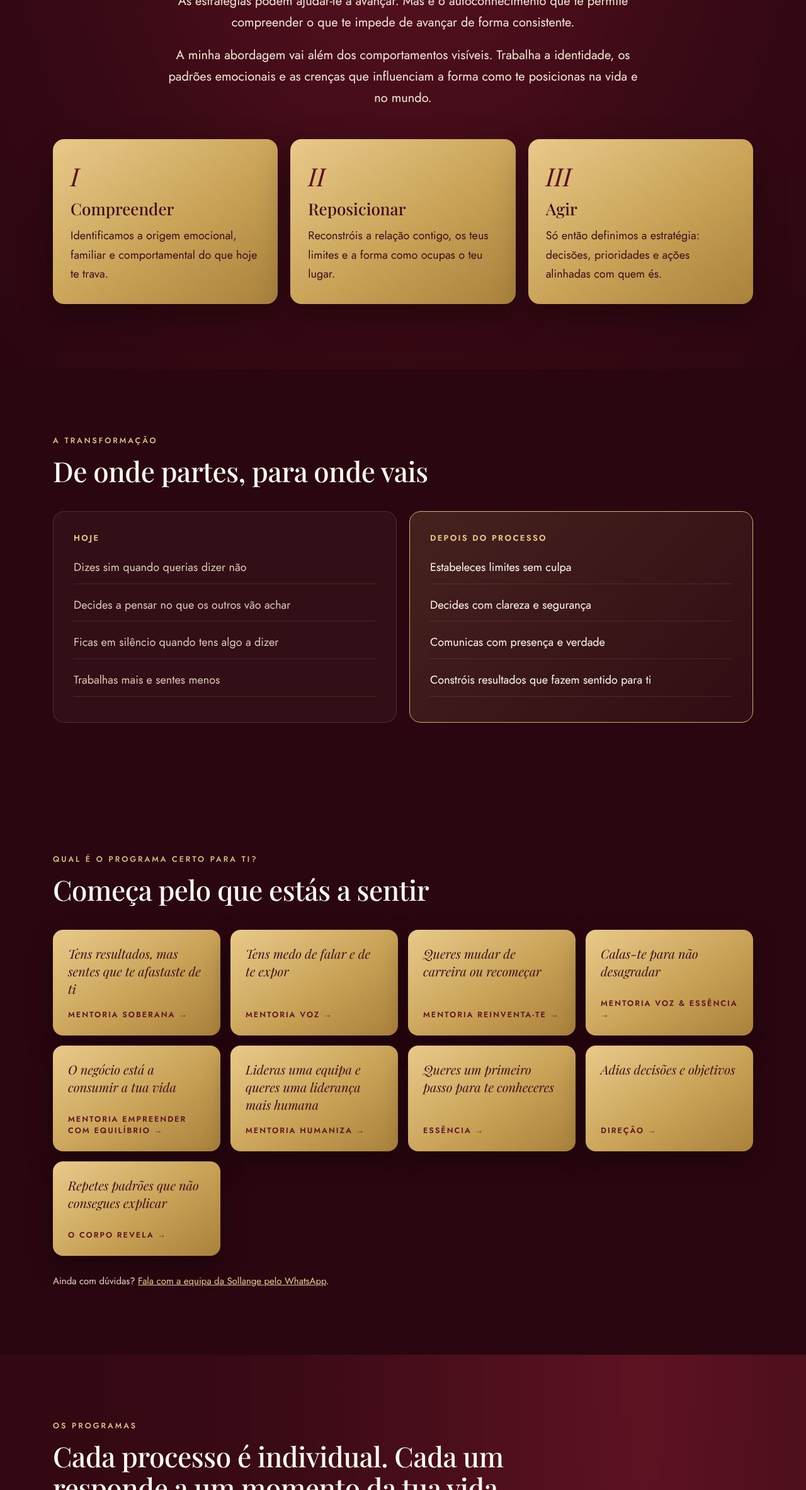
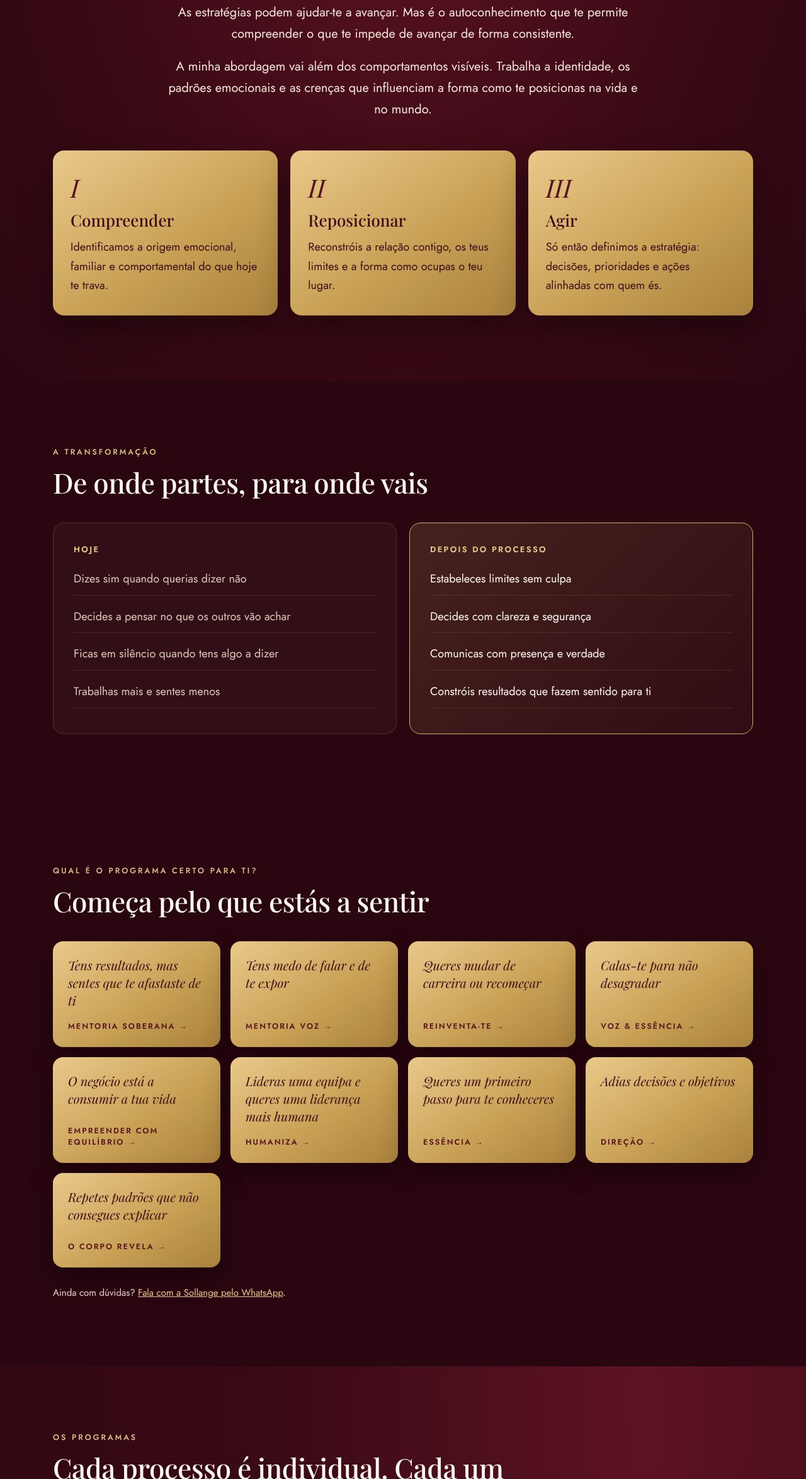
Page: follow client change document exactly
Claude-Session: https://claude.ai/code/session_01LHQJ2mQGDsvNSWxv53LoAn

diff --git a/sollange-programas.html b/sollange-programas.html
@@ -190,9 +190,9 @@ footer{text-align:center;padding:40px 0;font-size:14px;color:#D9C3B4;border-top:
 <nav><div class="wrap"><b>SOLLANGE ALMADA BINHA</b><a class="btn" href="#guia">Descobre o teu programa</a></div></nav>
 
 <header class="hero"><div class="wrap hero-grid"><div>
-<p class="eyebrow">Mentoria · Terapia · Desenvolvimento pessoal e profissional</p>
+<p class="eyebrow">Mentoria · Terapia · Desenvolvimento pessoal</p>
 <h1>Conquistaste muito por fora. Agora, é tempo de te reencontrares, assumires o teu poder e liderares a tua vida por dentro.</h1>
-<p class="sub">Nove programas, uma visão: construir de dentro para fora. Porque nenhuma estratégia é verdadeiramente sustentável quando não está alinhada com a tua identidade, os teus valores e o teu propósito.</p>
+<p class="sub">Oito programas, uma visão: construir de dentro para fora. Porque nenhuma estratégia é verdadeiramente sustentável quando não está alinhada com a tua identidade, os teus valores e o teu propósito.</p>
 <div class="btns"><a class="btn" href="#guia">Descobre o teu programa</a><a class="btn line" href="#programas">Ver todos os programas</a></div>
 <p class="selo">Programas online e presencial · Sessões individuais com a Sollange · Para mulheres e homens</p>
 </div>
@@ -204,9 +204,9 @@ footer{text-align:center;padding:40px 0;font-size:14px;color:#D9C3B4;border-top:
 <div class="center"><p class="eyebrow">Talvez te reconheças</p>
 <h2 class="sec-h">Se já disseste a ti mesma…</h2></div>
 <div class="frases"><div class="frase"><i>“</i><p>“Construí resultados, mas sinto que me afastei de quem sou.”</p></div><div class="frase"><i>“</i><p>“Calo-me para evitar conflitos e carrego tudo o que ficou por dizer.”</p></div><div class="frase"><i>“</i><p>“Sinto culpa quando descanso, como se parar fosse falhar.”</p></div><div class="frase"><i>“</i><p>“Preparo tudo ao detalhe e, na hora de falar, a voz falha.”</p></div><div class="frase"><i>“</i><p>“Adio decisões importantes porque nenhuma parece a certa.”</p></div><div class="frase"><i>“</i><p>“Repito padrões que não consigo explicar.”</p></div></div>
-<div class="center"><p class="selo-pill">Então este processo <em>é para ti.</em></p>
+<div class="center"><p class="selo-pill">Então este programa <em>é para ti.</em></p>
 <p class="quote" style="margin:40px auto 0;max-width:900px;font-size:clamp(22px,2.6vw,32px)">Não há nada de errado contigo. Existem padrões que influenciam a forma como pensas, sentes e ages. Quando os compreendes, ganhas a liberdade de escolher uma nova forma de viver.</p>
-<p style="margin-top:36px"><a class="btn" href="#" data-wa="Ol%C3%A1%21%20Gostaria%20de%20falar%20com%20a%20equipa%20da%20Sollange.">Fala com a equipa Sollange</a></p></div>
+<p style="margin-top:36px"><a class="btn" href="#guia">Descobre o teu programa</a></p></div>
 </div></section>
 
 <section class="metodo center"><div class="wrap">
@@ -233,8 +233,8 @@ footer{text-align:center;padding:40px 0;font-size:14px;color:#D9C3B4;border-top:
 <section class="guia" id="guia"><div class="wrap">
 <p class="eyebrow">Qual é o programa certo para ti?</p>
 <h2 class="sec-h">Começa pelo que estás a sentir</h2>
-<div class="guia-grid"><a class="guia-item" href="#soberana"><span>Tens resultados, mas sentes que te afastaste de ti</span><b>Mentoria Soberana →</b></a><a class="guia-item" href="#voz"><span>Tens medo de falar e de te expor</span><b>Mentoria VOZ →</b></a><a class="guia-item" href="#reinventa-te"><span>Queres mudar de carreira ou recomeçar</span><b>Mentoria Reinventa-te →</b></a><a class="guia-item" href="#voz-essencia"><span>Calas-te para não desagradar</span><b>Mentoria Voz &amp; Essência →</b></a><a class="guia-item" href="#empreender"><span>O negócio está a consumir a tua vida</span><b>Mentoria Empreender com Equilíbrio →</b></a><a class="guia-item" href="#humaniza"><span>Lideras uma equipa e queres uma liderança mais humana</span><b>Mentoria Humaniza →</b></a><a class="guia-item" href="#essencia"><span>Queres um primeiro passo para te conheceres</span><b>Essência →</b></a><a class="guia-item" href="#direcao"><span>Adias decisões e objetivos</span><b>Direção →</b></a><a class="guia-item" href="#analise-corporal"><span>Repetes padrões que não consegues explicar</span><b>O Corpo Revela →</b></a></div>
-<p class="nota" style="margin-top:28px">Ainda com dúvidas? <a href="#" data-wa="Ol%C3%A1%20Sollange%21%20Gostaria%20de%20saber%20qual%20%C3%A9%20o%20programa%20certo%20para%20mim." style="color:#E9C98A">Fala com a equipa da Sollange pelo WhatsApp</a>.</p>
+<div class="guia-grid"><a class="guia-item" href="#soberana"><span>Tens resultados, mas sentes que te afastaste de ti</span><b>Mentoria Soberana →</b></a><a class="guia-item" href="#voz"><span>Tens medo de falar e de te expor</span><b>Mentoria VOZ →</b></a><a class="guia-item" href="#reinventa-te"><span>Queres mudar de carreira ou recomeçar</span><b>Reinventa-te →</b></a><a class="guia-item" href="#voz-essencia"><span>Calas-te para não desagradar</span><b>Voz &amp; Essência →</b></a><a class="guia-item" href="#empreender"><span>O negócio está a consumir a tua vida</span><b>Empreender com Equilíbrio →</b></a><a class="guia-item" href="#humaniza"><span>Lideras uma equipa e queres uma liderança mais humana</span><b>Humaniza →</b></a><a class="guia-item" href="#essencia"><span>Queres um primeiro passo para te conheceres</span><b>Essência →</b></a><a class="guia-item" href="#direcao"><span>Adias decisões e objetivos</span><b>Direção →</b></a><a class="guia-item" href="#analise-corporal"><span>Repetes padrões que não consegues explicar</span><b>O Corpo Revela →</b></a></div>
+<p class="nota" style="margin-top:28px">Ainda com dúvidas? <a href="#" data-wa="Ol%C3%A1%20Sollange%21%20Gostaria%20de%20saber%20qual%20%C3%A9%20o%20programa%20certo%20para%20mim." style="color:#E9C98A">Fala com a Sollange pelo WhatsApp</a>.</p>
 </div></section>
 
 <section class="progs" id="programas"><div class="wrap">
@@ -245,11 +245,11 @@ footer{text-align:center;padding:40px 0;font-size:14px;color:#D9C3B4;border-top:
 <p class="grupo-d">O acompanhamento mais profundo. Para quem quer uma transformação integral, com a Sollange ao lado durante meio ano.</p>
 
 <article class="prog flag" id="soberana">
-<div class="prog-head"><p class="eyebrow">Mentoria · 6 meses</p><h2>Mentoria Soberana</h2><p class="tag">A identidade vem antes da estratégia.</p></div>
+<div class="prog-head"><span class="ribbon">Mentoria de assinatura</span><p class="eyebrow">Mentoria · 6 meses</p><h2>Mentoria Soberana</h2><p class="tag">A identidade vem antes da estratégia.</p></div>
 <div class="prog-body">
 <div><p class="desc">Um processo de desenvolvimento pessoal e profissional para uma transformação integral, consciente e alinhada com aquilo que consideras verdadeiramente importante. Seis meses para voltares a ti e liderares a tua vida a partir desse lugar.</p><h3>É para ti se…</h3><ul><li>Tens resultados, mas sentes dúvida, insatisfação ou falta de direção.</li><li>As emoções, a comunicação ou as relações no trabalho pesam mais do que deviam.</li><li>Sabes que algo precisa de mudar e queres fazê-lo com acompanhamento sério.</li></ul></div>
 <div><h3>O que vamos trabalhar</h3><ul><li>Roda da Vida: as áreas que precisam de mais atenção</li><li>Emoções, comunicação e relações no trabalho</li><li>Objetivos individuais para cada área</li><li>Os bloqueios que te impedem de avançar</li></ul>
-<div class="fmt"><span>6 meses para utilizar</span><span>10 sessões individuais</span><span>Exercícios guiados</span><span>Questionário de autoavaliação</span><span>Online e presencial</span></div>
+<div class="fmt"><span>6 meses para utilizar</span><span>10 sessões individuais</span><span>Exercícios guiados</span><span>Online e Presencial</span></div>
 <div class="preco-row"><a class="btn" href="#" data-hotmart="soberana">Quero entrar</a></div></div>
 </div></article>
 
@@ -258,48 +258,48 @@ footer{text-align:center;padding:40px 0;font-size:14px;color:#D9C3B4;border-top:
 <div class="prog-body">
 <div><p class="desc">Um processo de transformação pessoal e comunicacional que trabalha a origem emocional e comportamental do medo de comunicar. Não te falta capacidade: tens experiências, medos e crenças que te fizeram acreditar que não és capaz.</p><h3>É para ti se…</h3><ul><li>Preparas tudo e, na hora, a voz falha ou a mente fica em branco.</li><li>Ficas em silêncio nas reuniões, mesmo quando tens algo importante a dizer.</li><li>Evitas apresentações e situações de exposição que fariam crescer a tua carreira.</li></ul></div>
 <div><h3>O que vamos trabalhar</h3><ul><li>A origem pessoal, familiar e social da insegurança</li><li>Consciência corporal e presença</li><li>Padrões comportamentais</li><li>Crenças limitadoras</li></ul>
-<div class="fmt"><span>8 sessões individuais</span><span>6 meses para utilizar</span><span>Exercícios guiados</span><span>Questionário de autoavaliação</span><span>Online e presencial</span></div><p class="bonus">Inclui oferta da leitura corporal</p>
+<div class="fmt"><span>8 sessões individuais</span><span>6 meses para utilizar</span><span>Exercícios guiados</span><span>Online e Presencial</span></div><p class="bonus">Inclui oferta da leitura corporal</p>
 <div class="preco-row"><a class="btn" href="#" data-hotmart="voz">Quero entrar</a></div></div>
 </div></article>
 
-<p class="grupo-t">Mentorias de 3 meses</p>
+<p class="grupo-t">Programas intensivos</p>
 <p class="grupo-d">Processos focados num tema concreto, com início, meio e fim bem definidos.</p>
 
 <article class="prog" id="reinventa-te">
-<div class="prog-head"><p class="eyebrow">Mentoria · 3 meses</p><h2>Mentoria Reinventa-te</h2><p class="tag">A tua experiência não termina quando decides mudar de caminho.</p></div>
+<div class="prog-head"><p class="eyebrow">Programa · 3 meses</p><h2>Reinventa-te</h2><p class="tag">A tua experiência não termina quando decides mudar de caminho.</p></div>
 <div class="prog-body">
 <div><p class="desc">Um programa de transição e reinvenção de carreira para compreenderes o momento profissional em que estás, reconheceres o valor que já construíste e desenhares o próximo capítulo com segurança.</p><h3>É para ti se…</h3><ul><li>A tua vida profissional deixou de fazer sentido.</li><li>Queres mudar de área, lançar uma nova atividade ou regressar ao mercado.</li><li>Tens experiência, mas não sabes como a transformar num novo caminho.</li></ul></div>
 <div><h3>O que vamos trabalhar</h3><ul><li>Competências e experiências transferíveis</li><li>Novas possibilidades profissionais</li><li>O teu plano de transição, passo a passo</li></ul>
-<div class="fmt"><span>5 sessões individuais</span><span>Exercícios guiados</span><span>Questionário de autoavaliação</span><span>3 meses para utilizar</span></div>
+<div class="fmt"><span>5 sessões individuais</span><span>3 videoaulas</span><span>Exercícios guiados</span><span>3 meses para utilizar</span></div>
 <div class="preco-row"><a class="btn" href="#" data-hotmart="reinventa-te">Quero entrar</a></div></div>
 </div></article>
 
 <article class="prog" id="voz-essencia">
-<div class="prog-head"><p class="eyebrow">Mentoria · 3 meses</p><h2>Mentoria Voz &amp; Essência</h2><p class="tag">Reconecta-te contigo. Expressa-te sem culpa.</p></div>
+<div class="prog-head"><p class="eyebrow">Programa · 3 meses</p><h2>Voz &amp; Essência</h2><p class="tag">Reconecta-te contigo. Expressa-te sem culpa.</p></div>
 <div class="prog-body">
 <div><p class="desc">Um programa de transformação emocional e relacional para compreenderes os teus padrões, fortaleceres a relação contigo e comunicares de forma consciente, autêntica e assertiva.</p><h3>É para ti se…</h3><ul><li>Calas-te para evitar discussões.</li><li>Aceitas o que não queres para não desiludir ninguém.</li><li>Sentes culpa sempre que te posicionas.</li></ul></div>
 <div><h3>O que vamos trabalhar</h3><ul><li>Autoconhecimento, autoestima e identidade</li><li>Medo da rejeição e da desaprovação</li><li>Comunicação emocional e assertividade</li><li>Dizer não e estabelecer limites</li></ul>
-<div class="fmt"><span>6 sessões individuais</span><span>Exercícios guiados</span><span>Questionário de autoavaliação</span><span>3 meses para utilizar</span><span>Online e presencial</span></div>
+<div class="fmt"><span>6 sessões individuais</span><span>Exercícios guiados</span><span>3 meses para utilizar</span><span>Online e Presencial</span></div>
 <div class="preco-row"><a class="btn" href="#" data-hotmart="voz-essencia">Quero entrar</a></div></div>
 </div></article>
 
 <article class="prog" id="empreender">
-<div class="prog-head"><p class="eyebrow">Mentoria · 3 meses</p><h2>Mentoria Empreender com Equilíbrio</h2><p class="tag">Constrói o teu negócio sem perderes a tua vida.</p></div>
+<div class="prog-head"><p class="eyebrow">Programa · 3 meses</p><h2>Empreender com Equilíbrio</h2><p class="tag">Constrói o teu negócio sem perderes a tua vida.</p></div>
 <div class="prog-body">
 <div><p class="desc">Um programa para empreendedoras que querem crescer sem se perderem pelo caminho: reorganizar prioridades, gerir a pressão emocional do negócio e voltar a ter espaço para a vida.</p><h3>É para ti se…</h3><ul><li>Vives permanentemente cansada.</li><li>Sentes culpa por descansar.</li><li>Sentes que estás sempre a falhar em alguma área da tua vida.</li></ul></div>
 <div><h3>O que vamos trabalhar</h3><ul><li>Organização, tempo e prioridades</li><li>Equilíbrio emocional e gestão da pressão</li><li>Negócio, família, limites e delegação</li><li>Autocuidado e rotinas sustentáveis</li></ul>
-<div class="fmt"><span>5 sessões individuais</span><span>3 videoaulas</span><span>Exercícios guiados</span><span>Questionário de autoavaliação</span><span>3 meses para utilizar</span><span>Online e presencial</span></div>
+<div class="fmt"><span>5 sessões individuais</span><span>3 videoaulas</span><span>Exercícios guiados</span><span>3 meses para utilizar</span><span>Online e Presencial</span></div>
 <div class="preco-row"><a class="btn" href="#" data-hotmart="empreender">Quero entrar</a></div></div>
 </div></article>
 
 <p class="grupo-t">Para líderes e equipas</p>
 <p class="grupo-d">Um processo intensivo para levar este trabalho às organizações.</p>
 <article class="prog" id="humaniza">
-<div class="prog-head"><p class="eyebrow">Mentoria · Líderes e equipas · 1 mês</p><h2>Mentoria Humaniza para Líderes e Equipas</h2><p class="tag">Liderar pessoas começa por compreender pessoas.</p></div>
+<div class="prog-head"><p class="eyebrow">Programa · Líderes e equipas · 1 mês</p><h2>Humaniza para Líderes e Equipas</h2><p class="tag">Liderar pessoas começa por compreender pessoas.</p></div>
 <div class="prog-body">
 <div><p class="desc">Um processo para líderes e equipas que querem construir relações de trabalho mais humanas, conscientes e eficazes. Trabalhamos a forma como cada pessoa comunica, reage e se posiciona, para que a equipa funcione a partir da confiança e não da pressão.</p><h3>É para ti se…</h3><ul><li>Lideras uma equipa e sentes que a comunicação está a falhar.</li><li>Há tensão, desmotivação ou conflitos que ninguém resolve.</li><li>Queres uma liderança mais próxima, sem perder resultados.</li></ul></div>
 <div><h3>O que vamos trabalhar</h3><ul><li>Autoconhecimento e estilo de liderança</li><li>Comunicação e gestão de conflitos</li><li>Inteligência emocional na equipa</li><li>Confiança, responsabilidade e colaboração</li></ul>
-<div class="fmt"><span>3 sessões de 4 horas</span><span>Exercícios guiados</span><span>Questionário de autoavaliação</span><span>1 mês para utilizar</span><span>Emissão de certificados</span></div>
+<div class="fmt"><span>3 sessões de 4 horas</span><span>Exercícios guiados</span><span>1 mês para utilizar</span><span>Emissão de certificados</span></div>
 <div class="preco-row"><a class="btn" href="#" data-hotmart="humaniza">Quero entrar</a></div></div>
 </div></article>
 <p class="grupo-t">Portas de entrada</p>
@@ -313,7 +313,7 @@ footer{text-align:center;padding:40px 0;font-size:14px;color:#D9C3B4;border-top:
 
 <section class="paraquem"><div class="wrap">
 <p class="eyebrow">Antes de começares</p>
-<h2 class="sec-h">Este programa não é para toda a gente</h2>
+<h2 class="sec-h">Este trabalho não é para toda a gente</h2>
 <div class="pq">
 <div class="sim"><h3>É para ti se…</h3><ul><li>Estás disposta a olhar para dentro, mesmo quando é desconfortável</li><li>Queres mudança real, não apenas motivação</li><li>Valorizas um acompanhamento próximo e humano</li><li>Estás pronta para investir em ti com compromisso</li></ul></div>
 <div class="nao"><h3>Não é para ti se…</h3><ul><li>Procuras uma fórmula rápida ou uma solução mágica</li><li>Esperas que alguém faça o trabalho por ti</li><li>Não estás disponível para fazer os exercícios e comparecer às sessões</li><li>Queres apenas mais uma técnica de produtividade</li></ul></div>
@@ -324,16 +324,16 @@ footer{text-align:center;padding:40px 0;font-size:14px;color:#D9C3B4;border-top:
 <p class="eyebrow">Como funciona</p>
 <h2 class="sec-h">Três passos para começares</h2>
 <div class="passos">
-<div class="passo"><h4>Escolhe o teu programa</h4><p>Usa o guia acima ou lê a descrição de cada programa para encontrares o que corresponde ao teu momento atual.</p></div>
-<div class="passo"><h4>Garante a tua inscrição</h4><p>Clica em “Quero entrar” e conclui a inscrição na página segura da Hotmart, com a opção de pagamento que preferires.</p></div>
-<div class="passo"><h4>Fala com a equipa</h4><p>A equipa da Sollange entra em contacto contigo para marcar as tuas sessões, online ou presenciais.</p></div>
+<div class="passo"><h4>Escolhe o teu programa</h4><p>Usa o guia acima ou lê a descrição de cada programa para encontrares o que responde ao teu momento.</p></div>
+<div class="passo"><h4>Garante a tua inscrição</h4><p>Clica em “Quero entrar” e concluis a inscrição na página segura da Hotmart, com opção de pagamento em prestações.</p></div>
+<div class="passo"><h4>Começa com a Sollange</h4><p>Recebes o acesso aos conteúdos e marcas as tuas sessões individuais com a Sollange, online ou presenciais.</p></div>
 </div>
-<p style="margin-top:40px"><a class="btn" href="#programas">Ver os programas</a> <a class="btn line" href="#" data-wa="Ol%C3%A1%20Sollange%21%20Gostaria%20de%20saber%20qual%20%C3%A9%20o%20programa%20certo%20para%20mim." style="margin-left:8px">Falar com a equipa</a></p>
+<p style="margin-top:40px"><a class="btn" href="#programas">Ver os programas</a> <a class="btn line" href="#" data-wa="Ol%C3%A1%20Sollange%21%20Gostaria%20de%20saber%20qual%20%C3%A9%20o%20programa%20certo%20para%20mim." style="margin-left:8px">Tirar dúvidas no WhatsApp</a></p>
 </div></section>
 
 <section class="depo" id="depoimentos"><div class="wrap">
 <div class="numeros"><div><b>[+000]</b><span>pessoas acompanhadas</span></div><div><b>[00]</b><span>anos de experiência</span></div><div><b>[000+]</b><span>sessões individuais</span></div><div><b>[00]</b><span>mulheres no Círculo do Poder Feminino</span></div></div>
-<p class="eyebrow">O que falam do meu trabalho</p>
+<p class="eyebrow">Quem já fez o caminho</p>
 <h2 class="sec-h">Palavras de quem já viveu este trabalho</h2>
 <div class="depo-grid"><figure><span class="depo-res">Mentoria Soberana</span><blockquote>“Neste momento estou a aprender a delegar. Hoje faço exatamente o que gosto e tenho grandes expectativas para o meu trabalho. A terapia tem-me feito querer ser uma grande profissional e, além disso, perspetivo <b>abundância, crescimento e realização como nunca antes.</b>”</blockquote><div class="autor"><div class="ini">SF</div><div><b>S. F.</b><span>Mentorada</span></div></div></figure><figure><span class="depo-res">Mentoria VOZ</span><blockquote>“Procurei a Mentoria VOZ porque sentia que não conseguia defender as minhas ideias com confiança. Ao longo do processo, percebi que tenho valor e que a minha opinião importa. <b>Hoje consigo afirmar os meus limites e expor a minha opinião sem culpa</b>, mesmo em situações de pressão, algo que eu evitava completamente antes.”</blockquote><div class="autor"><div class="ini">✦</div><div><b>Mentorada</b><span>Mentoria VOZ</span></div></div></figure><figure><span class="depo-res">Processo terapêutico</span><blockquote>“Quando iniciei esta terapia, encontrava-me em estado depressivo, com choros incontroláveis, derivados da minha falta de autoestima. <b>Em poucas sessões, o meu comportamento, as minhas atitudes e até a minha expressão mudaram.</b> O começo não foi fácil, mas as ferramentas que adquiri ficam para toda a vida.”</blockquote><div class="autor"><div class="ini">D</div><div><b>D.</b><span>Processo terapêutico</span></div></div></figure><figure><span class="depo-res">Mentoria Empreender com Equilíbrio</span><blockquote>“Sendo mãe, esposa e estudante, a gestão do tempo tinha um grande impacto em mim: dificuldades, cansaço e stress. Com a mentoria, percebi que <b>planear horários e definir prioridades é essencial para manter o equilíbrio.</b> Recomendaria fortemente esta mentoria a uma mulher empreendedora ou futura empreendedora.”</blockquote><div class="autor"><div class="ini">IM</div><div><b>I. M.</b><span>Mentorada</span></div></div></figure><figure><span class="depo-res">Processo terapêutico</span><blockquote>“Eu era uma pessoa que vivia com o corpo no presente e a alma no passado. Aprendi a deixar o passado para trás e a dar-lhe outro significado, a identificar e a nomear o que sinto, e a não depender da aprovação dos outros. <b>Aprendi a ser feliz comigo mesma.</b>”</blockquote><div class="autor"><div class="ini">KS</div><div><b>K. S.</b><span>Processo terapêutico</span></div></div></figure><figure><span class="depo-res">Mentoria</span><blockquote>“A sua excelente mentoria fez-me direcionar o meu negócio, no qual antes me sentia perdida. Através da sua condução, consegui organizar-me, pôr as ideias em prática e melhorar os meus atendimentos e a prospeção. <b>Comecei uma nova consultoria com as ideias que tive depois de usar as suas ferramentas.</b>”</blockquote><div class="autor"><div class="ini">NA</div><div><b>N. A.</b><span>Mentorada · Empreendedorismo</span></div></div></figure><figure><span class="depo-res">Sessão individual</span><blockquote>“Fiquei surpreendida, no melhor sentido, por teres identificado a minha autossuficiência sem colocares imediatamente a tónica na sobrecarga. <b>Isso ajudou-me a ver com mais clareza a imensa força que tenho</b> e a integrar esta dualidade: força e desejo de conexão.”</blockquote><div class="autor"><div class="ini">AF</div><div><b>A. F.</b><span>Sessão individual</span></div></div></figure><figure><span class="depo-res">Mentoria Empreender com Equilíbrio</span><blockquote>“Consigo identificar padrões meus que antes não entendia, por ser insegura ou transparecer essa insegurança. <b>Hoje percebo que os meus padrões comportamentais influenciam não só os relacionamentos, como também o meu posicionamento profissional.</b>”</blockquote><div class="autor"><div class="ini">RP</div><div><b>R. P.</b><span>Mentorada</span></div></div></figure><figure><span class="depo-res">Sessão de coaching</span><blockquote>“Adorei o teu método de descascar até chegar ao ponto onde iria começar. Logo a seguir à nossa sessão, contactei a pessoa que aceitou ser minha sócia. <b>Estava com muito na cabeça e ajudaste-me a esclarecer e a organizar as ideias.</b>”</blockquote><div class="autor"><div class="ini">AD</div><div><b>A. D.</b><span>Sessão de coaching</span></div></div></figure><figure><span class="depo-res">Essência</span><blockquote>“A minha educação e os exemplos que tenho na família influenciam várias situações da minha vida. <b>Aos poucos, vou-me libertando dessas crenças e criando a minha própria perceção.</b>”</blockquote><div class="autor"><div class="ini">RP</div><div><b>R. P.</b><span>Programa Essência</span></div></div></figure><figure><span class="depo-res">Direção</span><blockquote>“Já dou por mim, várias vezes, a pensar na forma como comunicar antes de falar. <b>Hoje escolho com mais consciência o que partilho</b> e como me posiciono no ambiente profissional.”</blockquote><div class="autor"><div class="ini">RP</div><div><b>R. P.</b><span>Programa Direção</span></div></div></figure><figure><span class="depo-res">Sessão de coaching</span><blockquote>“Tive a minha primeira sessão de coaching com a Sollange e foi muito motivante. Às vezes temos ideias, mas não sabemos tirá-las do papel e transformá-las em realidade. <b>É bom ter profissionais nesta área para nos ajudar.</b>”</blockquote><div class="autor"><div class="ini">✦</div><div><b>Cliente</b><span>Sessão de coaching</span></div></div></figure><figure><span class="depo-res">Processo terapêutico</span><blockquote>“Não tenho palavras para agradecer a tua entrega como terapeuta que, ao mesmo tempo, consegue ser amiga. Hoje comecei a sessão a chorar e terminei a sorrir. Estou renovada e pronta para tomar decisões de forma mais sensata e plena.”</blockquote><div class="autor"><div class="ini">AT</div><div><b>A. T.</b><span>Processo terapêutico</span></div></div></figure><figure><span class="depo-res">Mentoria VOZ</span><blockquote>“Foi uma experiência incrível e de muito aprendizado. Aprendi a lidar com as críticas e também aprendi a falar. Contigo estou a melhorar a minha comunicação e sinto-me mais segura a falar em público ou em círculo.”</blockquote><div class="autor"><div class="ini">IS</div><div><b>I. S.</b><span>Mentorada</span></div></div></figure></div>
 <p class="eyebrow" style="margin-top:72px">As mensagens, tal como chegaram</p>
@@ -351,8 +351,8 @@ footer{text-align:center;padding:40px 0;font-size:14px;color:#D9C3B4;border-top:
 <section class="faq"><div class="wrap">
 <p class="eyebrow">Perguntas frequentes</p>
 <h2 class="sec-h">Antes de decidires</h2>
-<details><summary>Como é que eu sei qual é o programa certo para mim?</summary><p>Começa pelo guia “Qual é o programa certo para ti?”. Se continuares com dúvidas, fala com a equipa da Sollange pelo WhatsApp: numa conversa curta ajudamos-te a perceber qual faz mais sentido para o teu momento.</p></details>
-<details><summary>Qual a diferença entre os programas?</summary><p>As mentorias de 6 meses são os processos mais profundos, com várias sessões individuais. As mentorias de 3 meses focam um tema concreto: carreira, comunicação ou equilíbrio no negócio. A Mentoria Humaniza é dirigida a líderes e equipas. Os primeiros passos combinam conteúdos ao teu ritmo com uma sessão individual, e são ideais para conheceres o trabalho da Sollange.</p></details>
+<details><summary>Como é que eu sei qual é o programa certo para mim?</summary><p>Começa pelo guia “Qual é o programa certo para ti?”. Se continuares com dúvidas, fala com a Sollange pelo WhatsApp: numa conversa curta percebem juntas qual faz mais sentido para o teu momento.</p></details>
+<details><summary>Qual a diferença entre os programas?</summary><p>As mentorias de 6 meses são os processos mais profundos, com várias sessões individuais. Os programas de 3 meses focam um tema concreto: carreira, comunicação ou equilíbrio no negócio. O Humaniza é dirigido a líderes e equipas. Os primeiros passos combinam conteúdos ao teu ritmo com uma sessão individual, e são ideais para conheceres o trabalho da Sollange.</p></details>
 <details><summary>Os programas são só para as mulheres?</summary><p>Não. Os programas acolhem mulheres e homens. A linguagem desta página é feminina, mas o trabalho é para qualquer pessoa que queira voltar a si.</p></details>
 <details><summary>Não tenho muito tempo. Consigo acompanhar?</summary><p>Sim. Os conteúdos em vídeo e os exercícios fazes ao teu ritmo, e as sessões individuais são marcadas de acordo com a tua disponibilidade.</p></details>
 <details><summary>As sessões são apenas online?</summary><p>Não. As sessões podem ser online ou presenciais, de acordo com o programa e com a tua preferência.</p></details>
@@ -371,12 +371,12 @@ footer{text-align:center;padding:40px 0;font-size:14px;color:#D9C3B4;border-top:
 <section class="final"><div class="wrap final-grid">
 <div class="cutout"><img src="fotos/recortes/sollange-final.webp" alt="Sollange Almada Binha" width="772" height="1184"></div>
 <div class="final-txt"><p class="quote">“Não precisas de ter todas as respostas para começares. Precisas de dar o primeiro passo.”</p>
-<p class="lead">Escolhe o programa que responde ao teu momento ou fala com a equipa da Sollange para descobrires por onde começar.</p>
-<a class="btn" href="#guia">Descobre o teu programa</a> <a class="btn line" href="#" data-wa="Ol%C3%A1%20Sollange%21%20Gostaria%20de%20conversar%20sobre%20os%20teus%20programas." style="margin-left:8px">Falar com a equipa</a>
+<p class="lead">Escolhe o programa que responde ao teu momento ou fala com a Sollange para descobrires, juntas, por onde começar.</p>
+<a class="btn" href="#guia">Descobre o teu programa</a> <a class="btn line" href="#" data-wa="Ol%C3%A1%20Sollange%21%20Gostaria%20de%20conversar%20sobre%20os%20teus%20programas." style="margin-left:8px">Falar com a Sollange</a>
 </div>
 </div></section>
 
-<footer>© Sollange Almada Binha · Mentoria, terapia e desenvolvimento pessoal e profissional</footer>
+<footer>© Sollange Almada Binha · Mentoria, terapia e desenvolvimento pessoal</footer>
 <script>
 // Links de checkout da Hotmart de cada programa (colar o link completo entre aspas)
 const HOTMART = {
